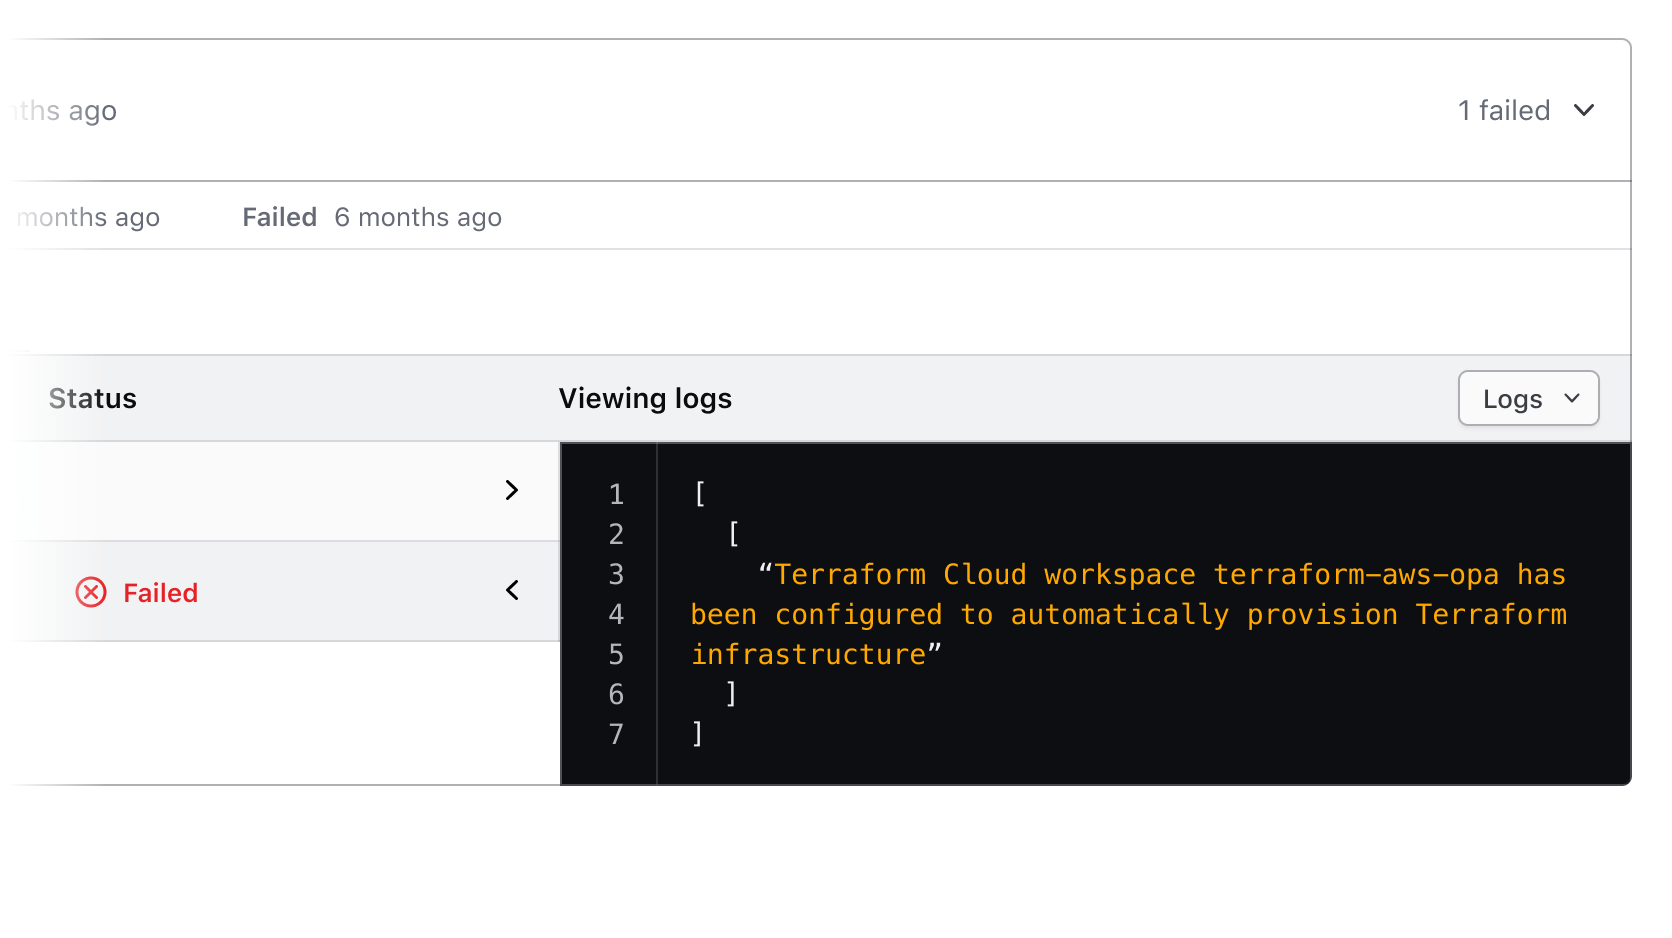
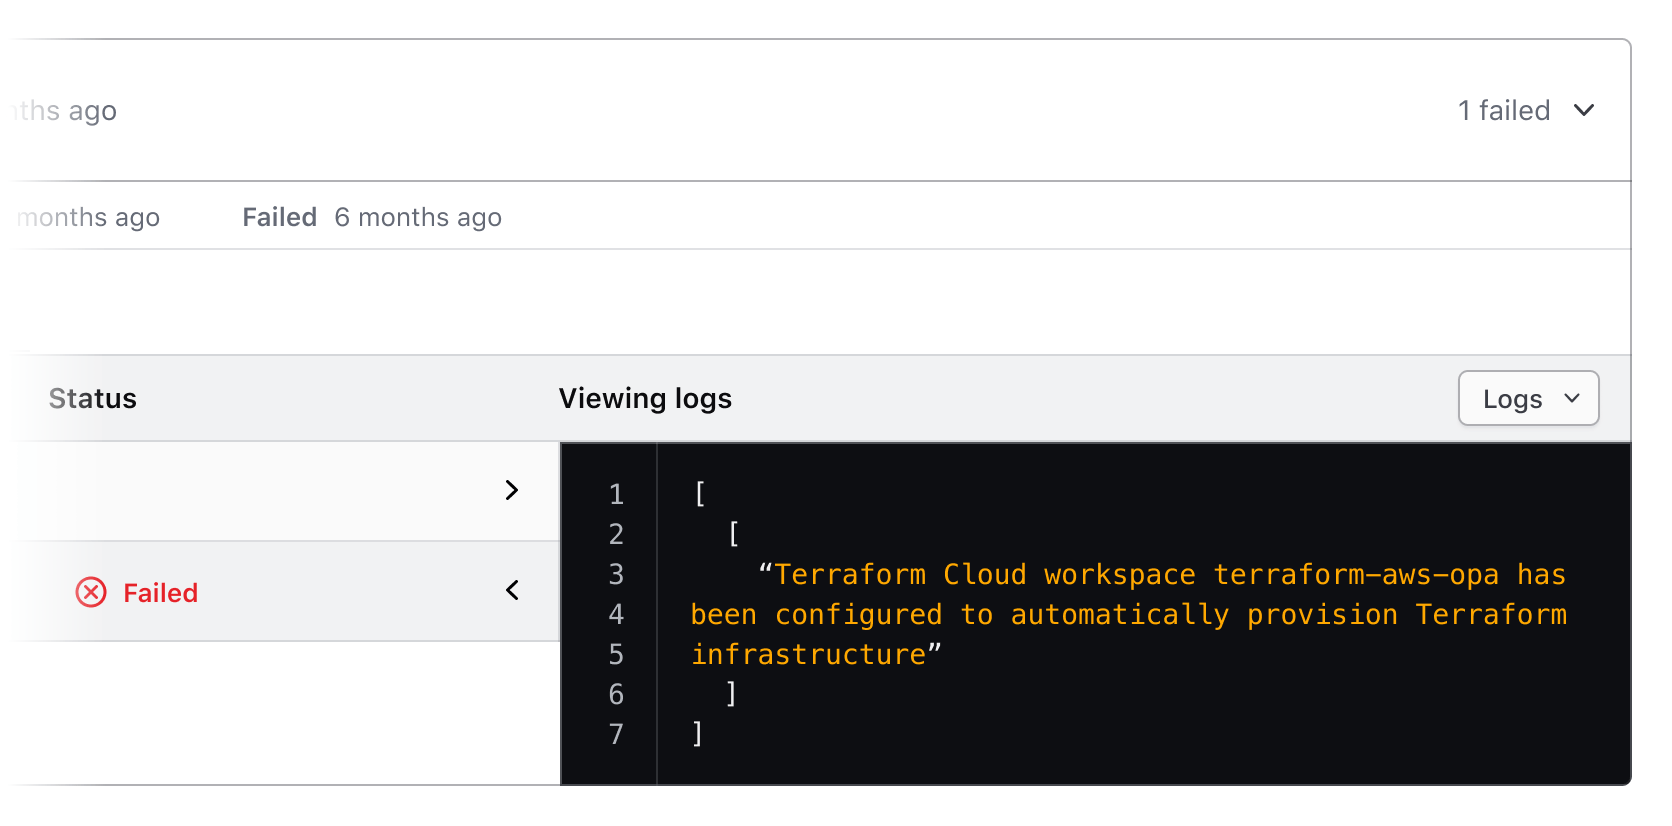
Removal of do/dont blocks and update/optimization of image

diff --git a/website/docs/components/code-block/partials/guidelines/guidelines.md b/website/docs/components/code-block/partials/guidelines/guidelines.md
@@ -17,42 +17,11 @@ There is some overlap in the copying functionality of the [Copy Snippet](/compon
 - If viewing or displaying code is the primary purpose, and copying the code is secondary.
 - If the example consists of a command, e.g., a `curl` and `bash` script. These are oftentimes on a single line, but consist of multiple commands and functions.
 
-!!! Dont
-
-Consider not using the CodeBlock for examples where syntax highlighting might not benefit the user, or if parsing the entire example isn’t necessary.
-
-<Hds::CodeBlock
-  @hasLineWrapping={{true}}
-  @hasLineNumbers={{false}}
-  @hasCopyButton={{true}}
-  @value="https://api.hashicorp.services/very-long-url-that-might-not-benefit-from-syntax-highlighting" />
-!!!
-
 **Use a Copy Snippet:**
 
 - If copying the code is the primary purpose, and viewing the code is secondary.
 - If allowing the user to copy an API key or other **single** value or string.
 - If seeing the value in a larger context of where it's expected to be pasted into isn’t necessary.
-
-!!! Dont
-
-In this example, viewing the code is likely the primary purpose and the user would benefit from syntax highlighting in the CodeBlock to better parse the script.
-
-<Hds::Copy::Snippet @textToCopy="aws ec2 --region us-east-1 authorize-security-group-egress --group-id --ip-permissions IpProtocol=tcp,FromPort=8200,ToPort=8200,IpRanges='[{CidrIp=172.25.16.0/20}]'" />
-!!!
-
-!!! Do
-
-Instead, use the CodeBlock instead for this type of code example.
-
-<Hds::CodeBlock
-  @language="bash"
-  @hasLineWrapping={{true}}
-  @hasLineNumbers={{false}}
-  @hasCopyButton={{true}}
-  @value="aws ec2 --region us-east-1 authorize-security-group-egress --group-id --ip-permissions IpProtocol=tcp,FromPort=8200,ToPort=8200,IpRanges='[{CidrIp=172.25.16.0/20}]'"
-/>
-!!!
 
 ## Standalone
 
